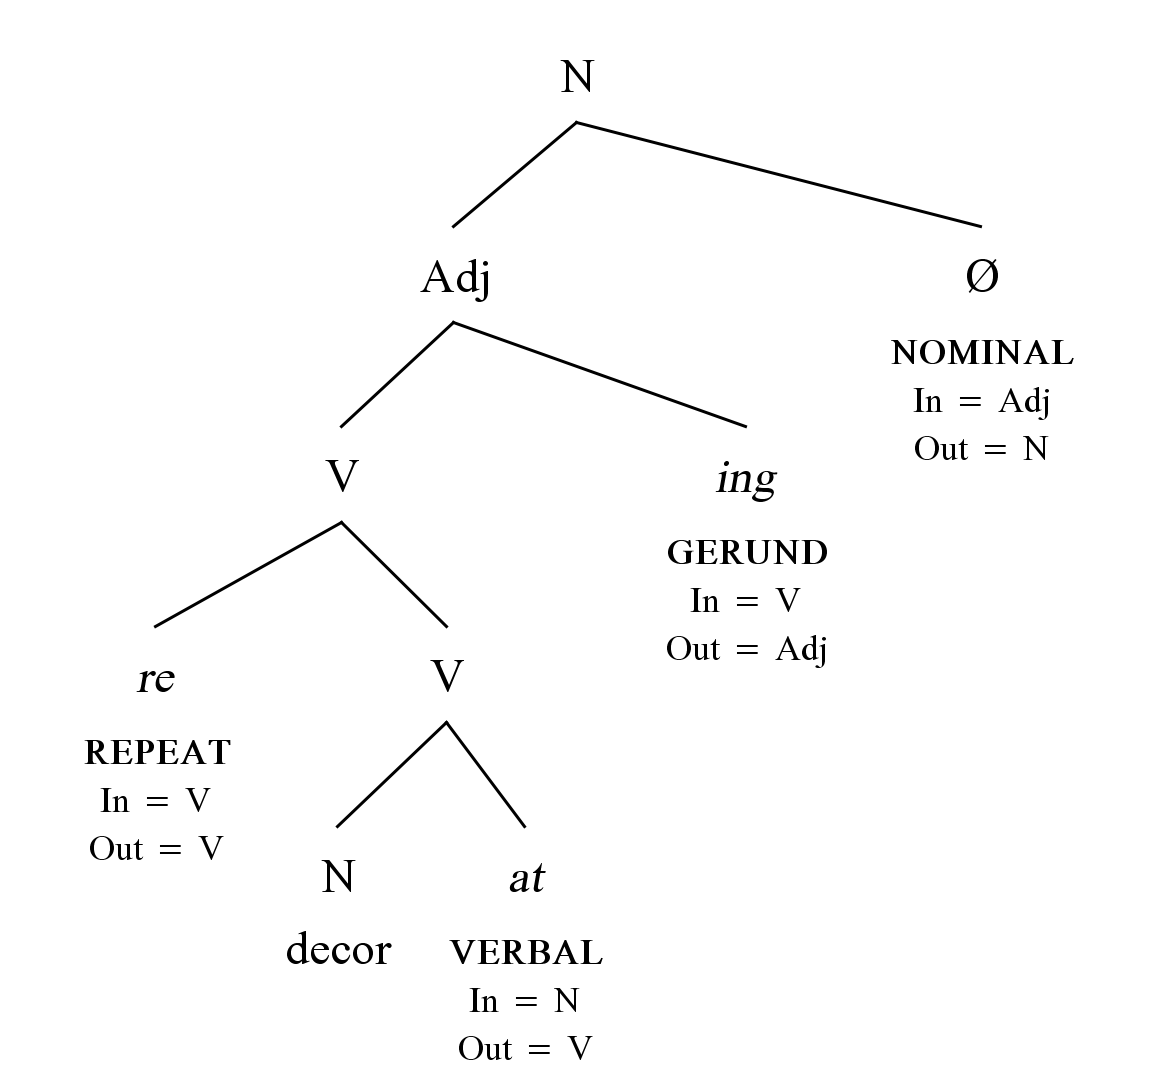
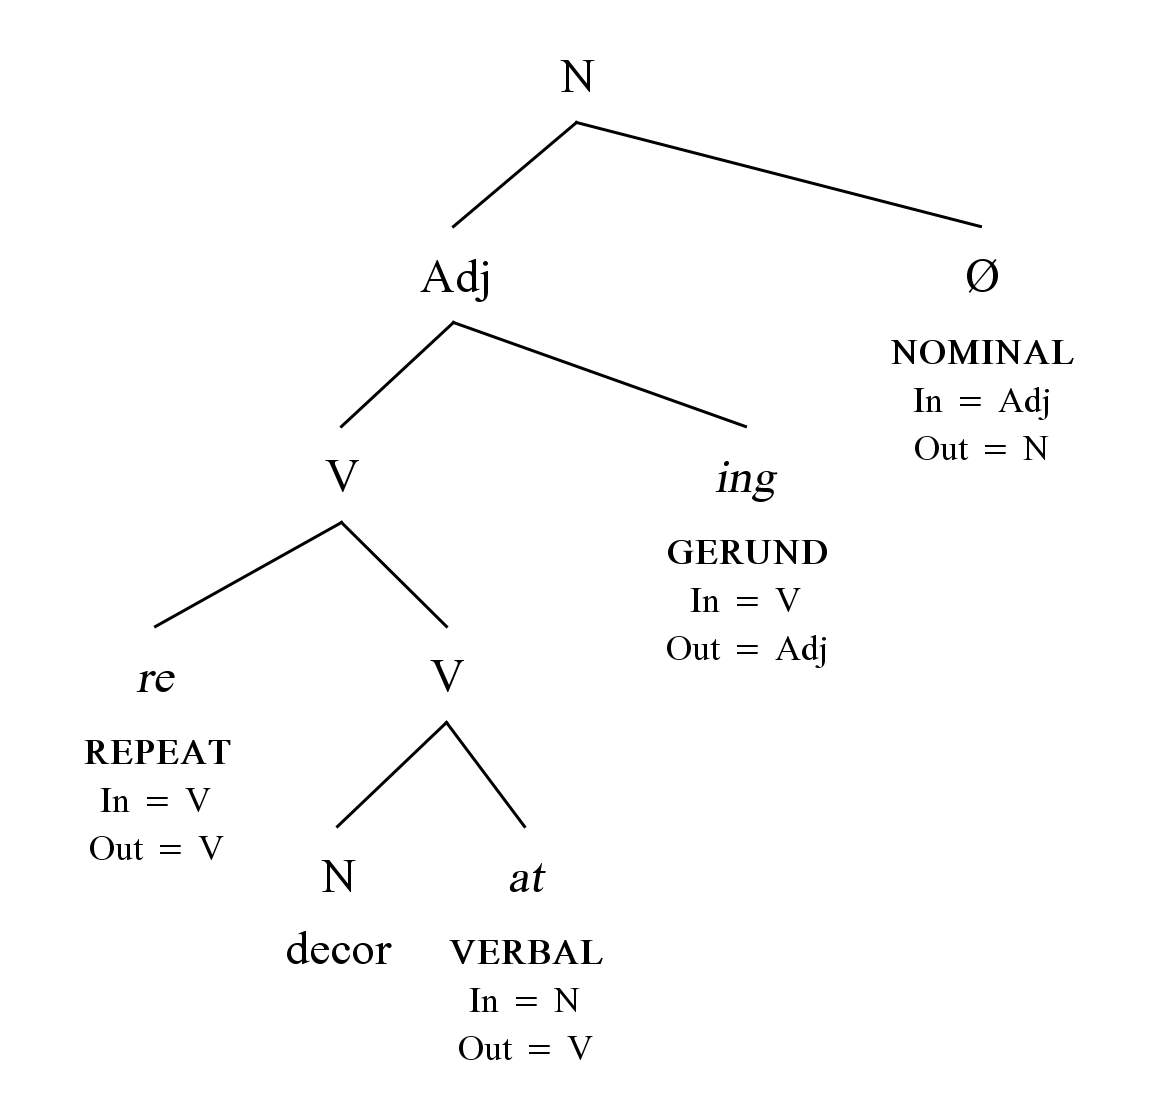
Vertical spacing fixed

diff --git a/SRC/JSyntaxTree.java b/SRC/JSyntaxTree.java
@@ -11,7 +11,7 @@ import java.awt.font.*;
 
 import javax.swing.*;
 
-public class JSyntaxTree extends JApplet {
+public class JSyntaxTree extends JPanel {
     static int fontSize = 48;
     static int spacingX = 50;
     static int spacingY = 200;
@@ -28,12 +28,6 @@ public class JSyntaxTree extends JApplet {
     public static Font font;
 
     public static Node NS;
- 
-    public void init() {
-        //Initialize drawing colors
-        setBackground(Color.WHITE);
-        setForeground(Color.BLACK);
-    }
 
     public void paint(Graphics g) {
         Graphics2D g2 = (Graphics2D) g;
@@ -224,7 +218,7 @@ public class JSyntaxTree extends JApplet {
 
         font = new Font(font_name, Font.PLAIN, fontSize);
         NS = Interpreter.interpret(filename);
-        height = NS.getDepth() + fontSize / 2 + border * 2;
+        height = NS.getDepth() + border * 2;
         width = NS.getWidth(true) + border * 2;
 
         if (!instant_quit) {
@@ -232,13 +226,13 @@ public class JSyntaxTree extends JApplet {
             f.addWindowListener(new WindowAdapter() {
                 public void windowClosing(WindowEvent e) {System.exit(0);}
             });
-            JApplet applet = new JSyntaxTree();
-            applet.setPreferredSize(new Dimension(width / 2, height / 2));
-            f.getContentPane().add(applet);
-            applet.init();
-            //f.setSize(new Dimension(width / 2, height / 2));
+            JPanel jp = new JSyntaxTree();
+            f.getContentPane().add(jp);
+            jp.setPreferredSize(new Dimension(width / 2, height / 2));
             f.pack();
+            //applet.init();
             f.setVisible(true);
+            f.setResizable(false);
         }
         save();
     }

diff --git a/SRC/Node.java b/SRC/Node.java
@@ -39,6 +39,7 @@ public class Node {
 			depth = metadata.split("\\\\n").length * JSyntaxTree.fontSize;
 			if (metadata.charAt(metadata.length() - 1) == '^')
 				depth += JSyntaxTree.spacingY;
+			depth += JSyntaxTree.fontSize * 1.5;
 		}
 		return depth;
 	}
